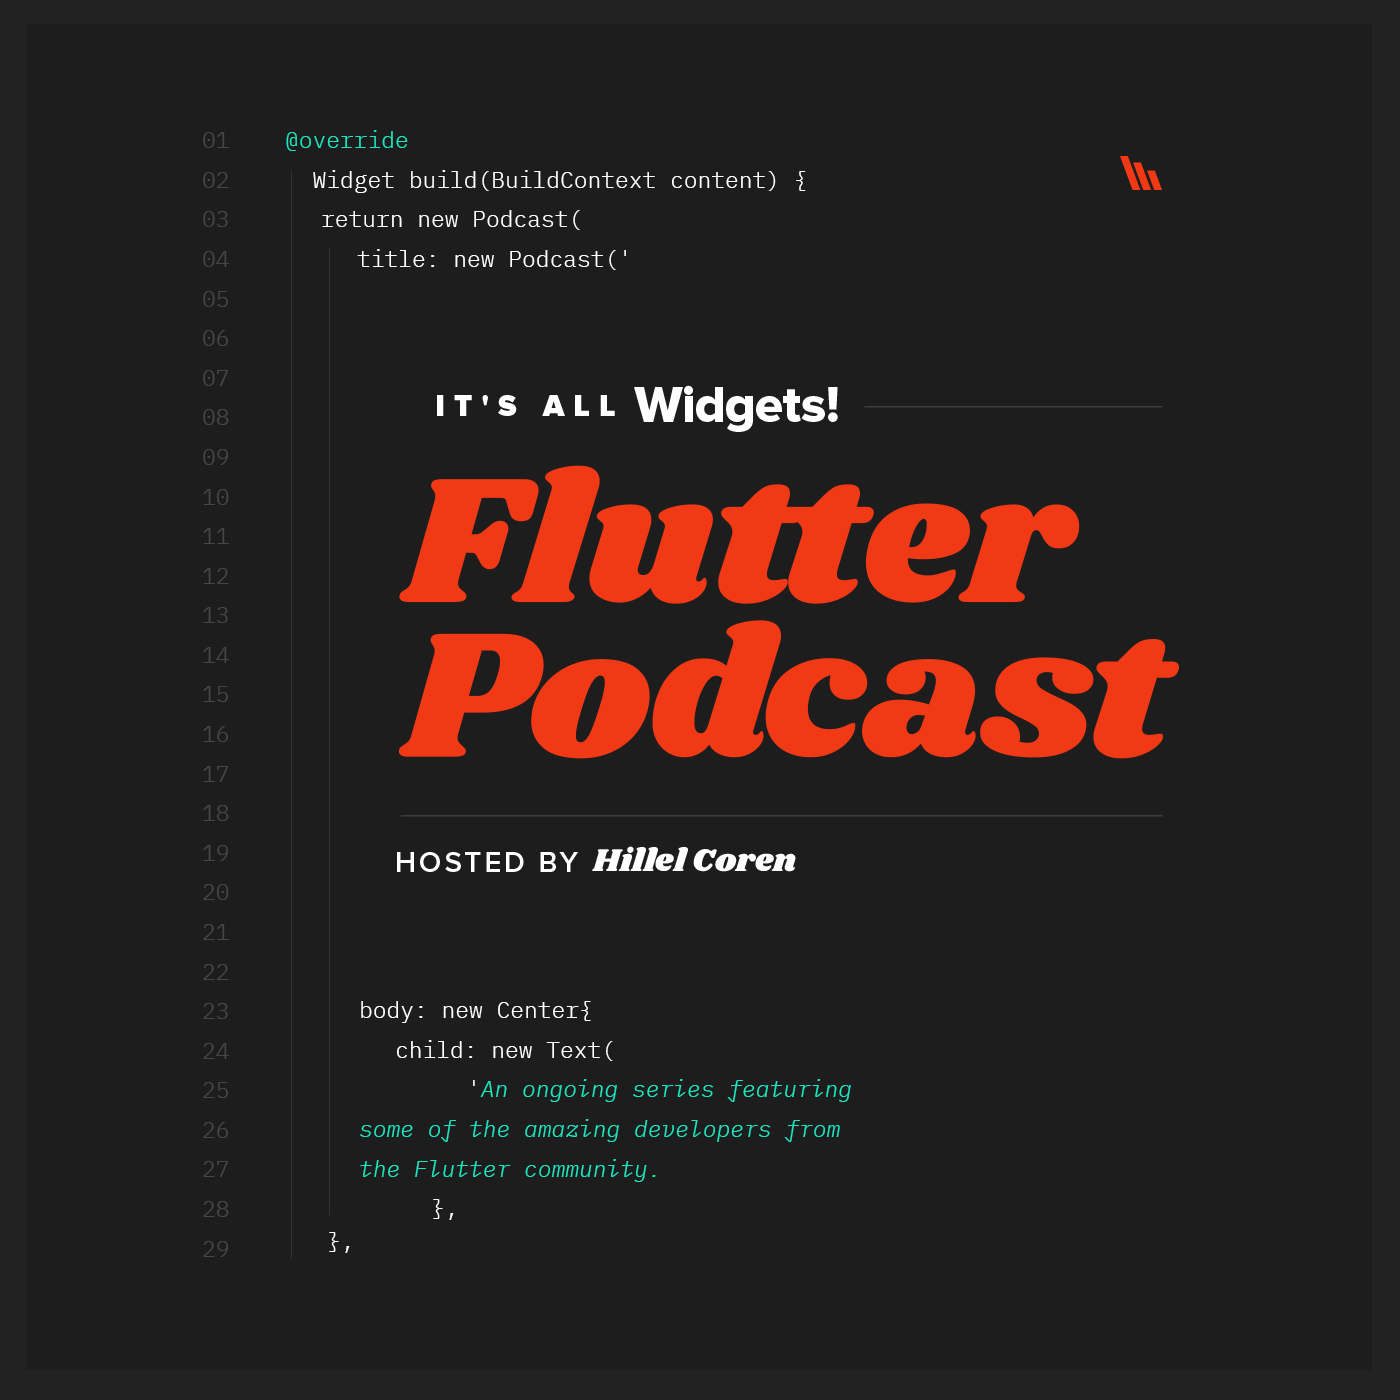
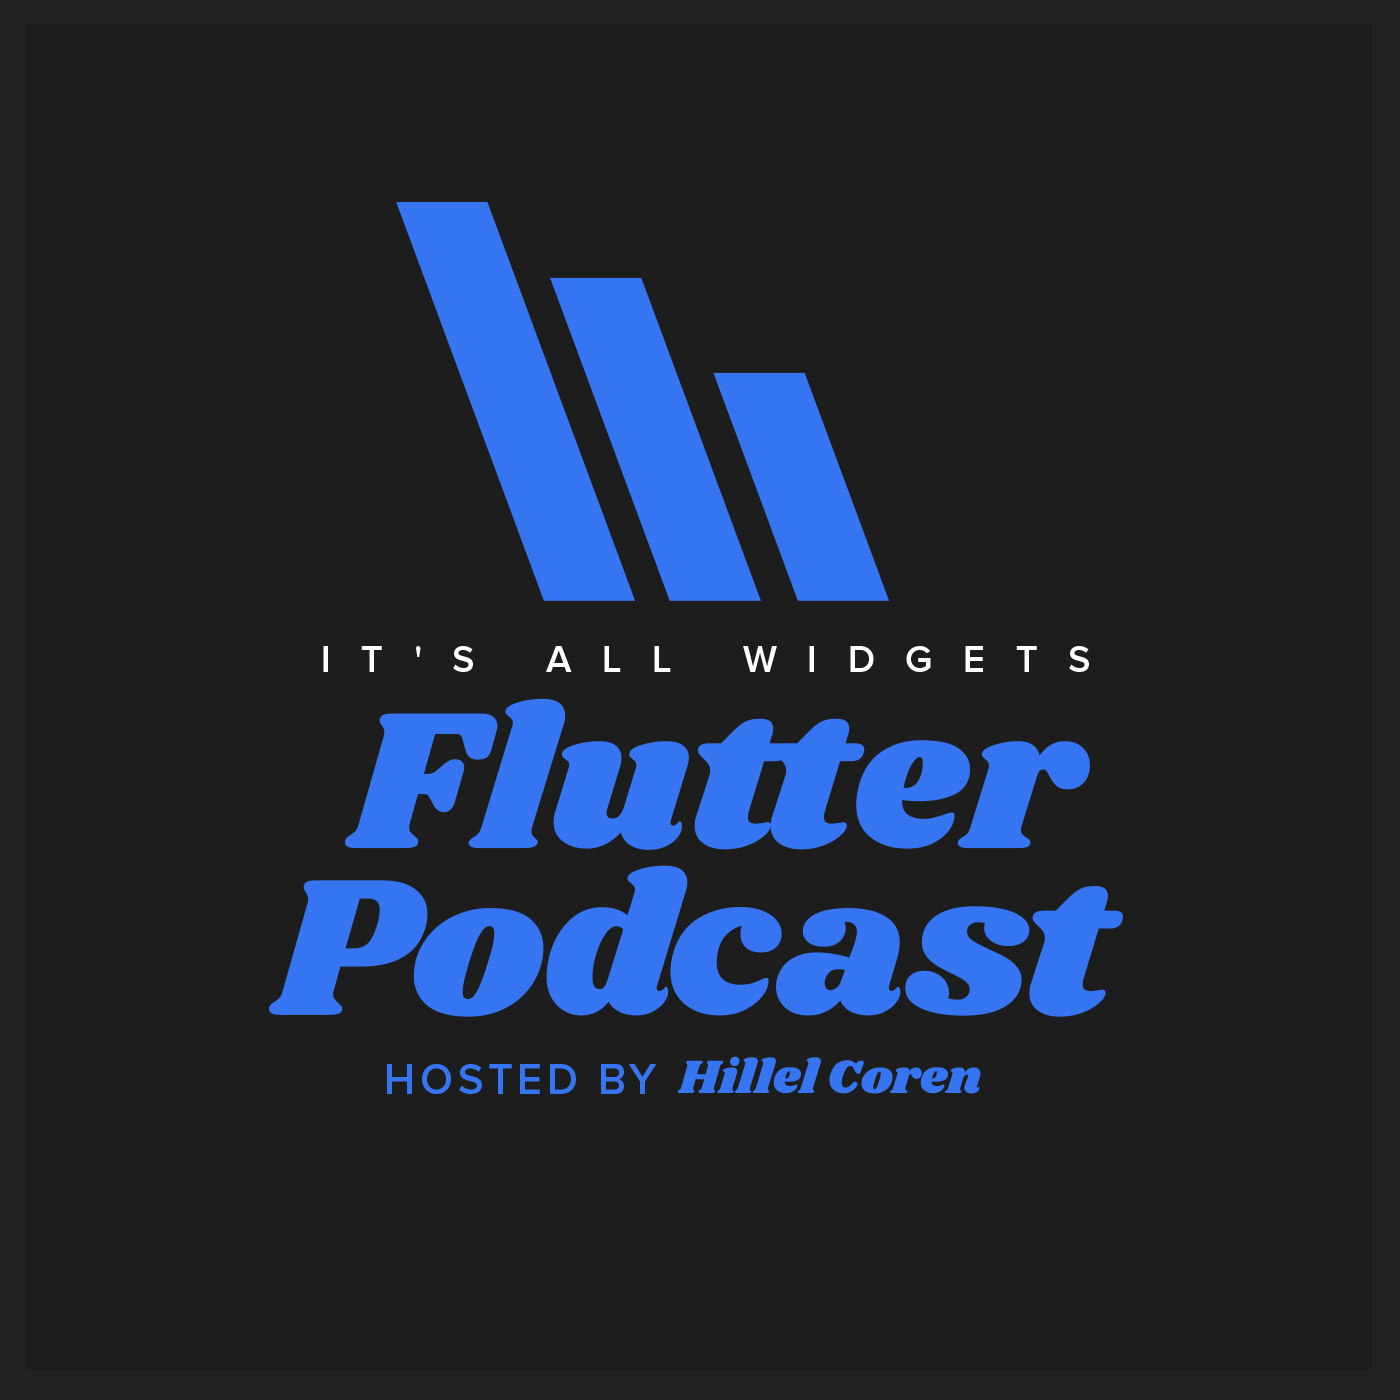
Podcast

diff --git a/resources/views/master.blade.php b/resources/views/master.blade.php
@@ -29,13 +29,13 @@
 
     <meta property="og:title" content="@yield('title') | {{ config('app.name') }}">
     <meta property="og:description" content="@yield('description')">
-    <meta property="og:image" content="@yield('image_url')">
+    <meta property="og:image" content="@yield('image_url')?clear_cache=1">
     <meta property="og:url" content="{{ request()->url() }}">
     <meta property="og:site_name" content="It's All Widgets!">
 
     <meta name="twitter:title" content="@yield('title') | {{ config('app.name') }}">
     <meta name="twitter:description" content="@yield('description')">
-    <meta name="twitter:image" content="@yield('image_url')?clear_cache">
+    <meta name="twitter:image" content="@yield('image_url')?clear_cache=1">
     <meta name="twitter:card" content="summary_large_image">
     <meta name="twitter:image:alt" content="@yield('title') | {{ config('app.name') }}">
 
@@ -282,7 +282,11 @@
 </head>
 
 <body>
-    <section class="hero is-info is-head-font has-bg-img">
+    @if (false && request()->is('podcast*'))
+        <section class="hero is-info is-head-font" style="background-color:#222">
+    @else
+        <section class="hero is-info is-head-font has-bg-img">
+    @endif
         <div class="hero-head">
             <nav class="navbar">
                 <div class="container">
@@ -324,20 +328,27 @@
 
                                 <a class="button is-elevated-dark" style="color:white; background-color:#366cb6; border-color:#366cb6"
                                 href="https://twitter.com/itsallwidgets" target="_blank">
-                                <span class="icon">
-                                    <i class="fab fa-twitter"></i>
-                                </span> &nbsp;
-                                <span>Twitter</span>
+                                    <span class="icon">
+                                        <i class="fab fa-twitter"></i>
+                                    </span> &nbsp;
+                                    <span>Twitter</span>
                                 </a> &nbsp;&nbsp;&nbsp;
 
-
-                                <a class="button is-elevated-dark" style="color:white; background-color:#366cb6; border-color:#366cb6"
-                                href="{{ url('/podcast') }}">
-                                <span class="icon">
-                                    <i class="fas fa-podcast"></i>
-                                </span> &nbsp;
-                                <span>Podcast</span>
-                                </a>
+                                @if (request()->is('podcast*'))
+                                    <a class="button is-elevated-dark" style="color:white; background-color:#366cb6; border-color:#366cb6" href="{{ url('/') }}">
+                                        <span class="icon">
+                                            <i class="fas fa-home"></i>
+                                        </span> &nbsp;
+                                        <span>Apps</span>
+                                    </a>
+                                @else
+                                    <a class="button is-elevated-dark" style="color:white; background-color:#366cb6; border-color:#366cb6" href="{{ url('/podcast') }}">
+                                        <span class="icon">
+                                            <i class="fas fa-podcast"></i>
+                                        </span> &nbsp;
+                                        <span>Podcast</span>
+                                    </a>
+                                @endif
 
                             </span>
                         </div>

diff --git a/resources/views/podcasts/index.blade.php b/resources/views/podcasts/index.blade.php
@@ -2,7 +2,7 @@
 
 @section('title', 'Flutter Podcast')
 @section('description', 'An open podcast for Flutter developers')
-@section('image_url', asset('images/podcast_background.jpg'))
+@section('image_url', asset('images/podcast.jpg'))
 
 @section('header_title', 'An open podcast for Flutter developers')
 @section('header_subtitle', 'Share your Flutter story with the community')
@@ -70,7 +70,7 @@
 
     <div class="columns is-multiline is-8 is-variable">
         <div class="column is-one-third">
-            <img src="{{ asset('images/podcast.png') }}"/>
+            <img src="{{ asset('images/podcast.jpg') }}"/>
         </div>
         <div class="column is-two-third">
 
@@ -95,6 +95,8 @@
             <div>
                 Music by <a href="https://www.facebook.com/ScottHolmesMusic/" target="_blank" rel="nofollow">Scott Holmes</a>
             </div>
+
+            <p>&nbsp;</p>
             <p>&nbsp;</p>
 
             <a class="button is-light is-slightly-elevated" href="https://www.reddit.com/r/FlutterDev/comments/a160mf/the_its_all_widgets_flutter_podcast_is_now/" target="_blank">

diff --git a/resources/views/podcasts/show.blade.php b/resources/views/podcasts/show.blade.php
@@ -2,7 +2,7 @@
 
 @section('title', $episode->title)
 @section('description', $episode->short_description)
-@section('image_url', asset('images/podcast_background.jpg'))
+@section('image_url', asset('images/podcast.jpg'))
 
 @section('header_title', 'An open podcast for Flutter developers')
 @section('header_subtitle', 'Share your Flutter story with the community')
